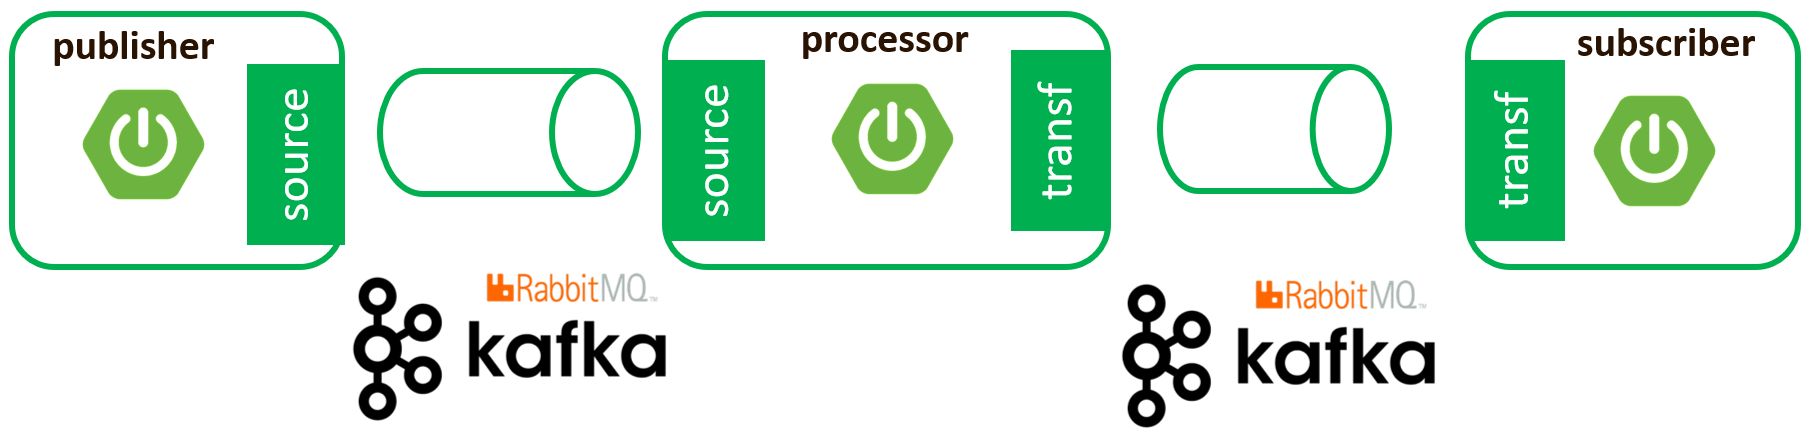
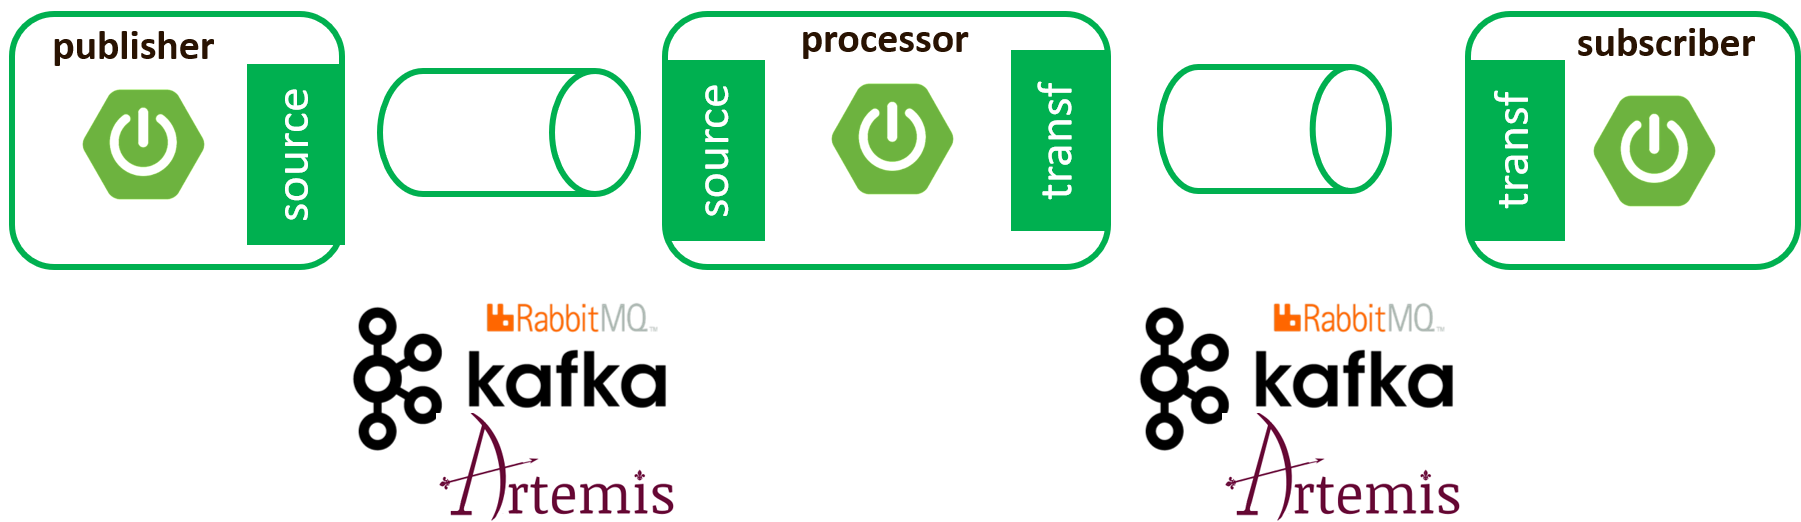
update Readme ; fix missing points; update TODO

diff --git a/README.md b/README.md
@@ -10,8 +10,9 @@
 - Java 8
 - Maven 3
 - Spring Boot: 1.5.9.RELEASE
-- RabbitMQ
-- Apache Kafka Client 0.10.2 
+- RabbitMQ 3.7.2
+- Apache Kafka Client 0.10.2
+- ActiveMQ Artemis 2.4.0
 
 # Pipeline Overview
 - The following figure describe the global overview of the pipeline 
@@ -21,19 +22,32 @@
 # Run the project with `rabbit` profile
 
 ```sh
-$ mvn spring-boot:run -Dspring.profiles.active=rabbit
+$ ${publisher} mvn spring-boot:run -Dspring.profiles.active=rabbit
+$ ${processor} mvn spring-boot:run -Dspring.profiles.active=rabbit
+$ ${subscriber} mvn spring-boot:run -Dspring.profiles.active=rabbit
 ```
 
 # Run the project with `kafka` profile
 
 ```sh
-$ mvn spring-boot:run -Dspring.profiles.active=kafka
+$ ${publisher} mvn spring-boot:run -Dspring.profiles.active=kafka
+$ ${processor} mvn spring-boot:run -Dspring.profiles.active=kafka
+$ ${subscriber} mvn spring-boot:run -Dspring.profiles.active=kafka
 ```
+
+# Run the project with `artemis` profile
+
+```sh
+$ ${publisher} mvn spring-boot:run -Dspring.profiles.active=artemis
+$ ${processor} mvn spring-boot:run -Dspring.profiles.active=artemis
+$ ${subscriber} mvn spring-boot:run -Dspring.profiles.active=artemis
+```
+
 # TODO
 1. Add Pojo Support
-2. Add Docker Compose file for Kafka/Redis
-3. Add Support to ActiveMQ Artemis 2.4.0 through [Artemis binder](https://github.com/snowdrop/spring-cloud-stream-binder-artemis)
-4. [Optional] Upgrade to Spring Boot 2.0.0.RC1 and Kafka Client 1.0.0
+2. ~~Add Docker Compose file for Kafka/Rabbit/Artemis~~
+3. ~~Add Support to ActiveMQ Artemis 2.4.0 through [Artemis binder](https://github.com/snowdrop/spring-cloud-stream-binder-artemis)~~
+4. [Optional] ~~Upgrade to Spring Boot 2.0.0.RC1 and Kafka Client 1.0.0~~ (fixed in spring-boot-2.0.0.RC1 branch)
 
 # References
 
